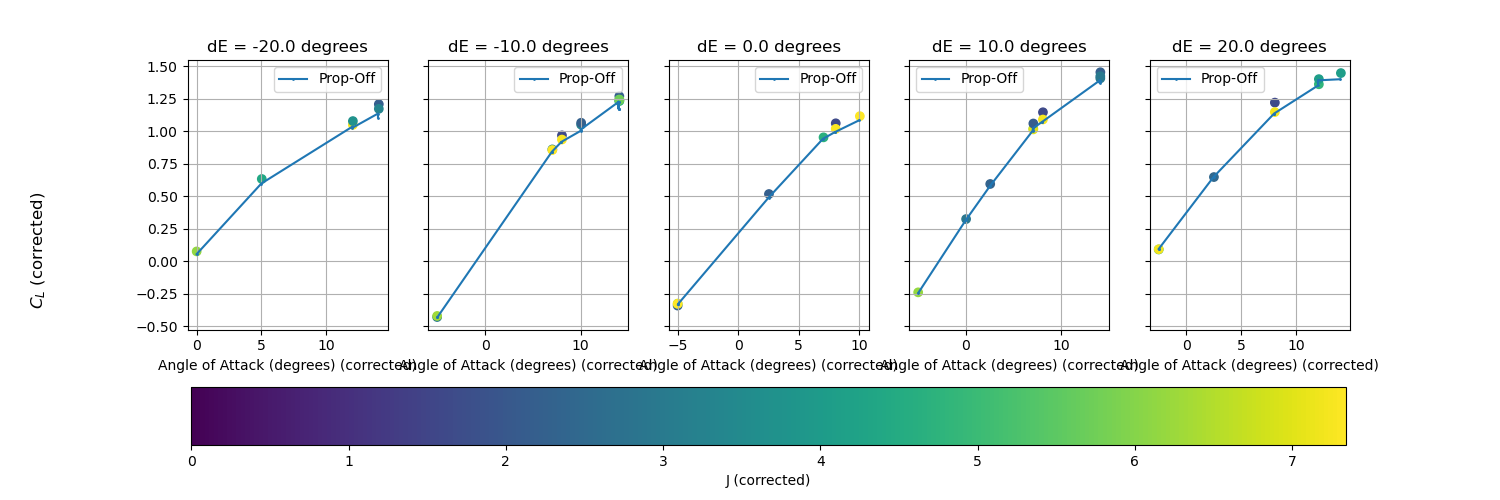
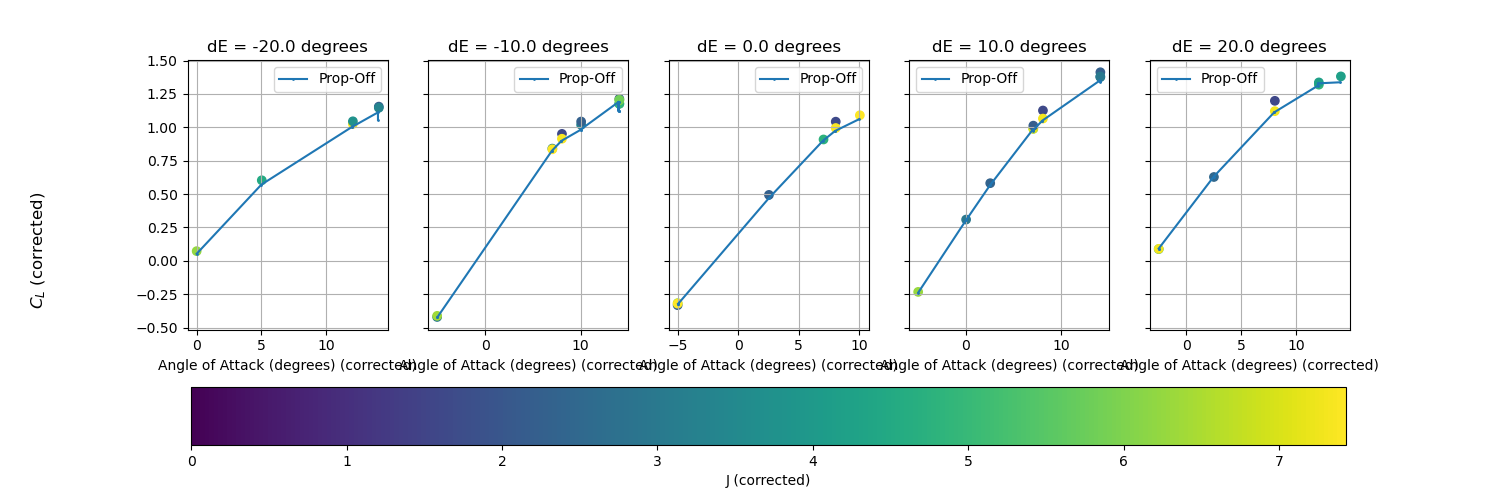
good thrust

diff --git a/main.py b/main.py
@@ -78,7 +78,7 @@ if __name__=='__main__':
             CL_uncor = elev_chosen['CFZ'].values
             CBX_uncor = elev_chosen['CFX'].values # balance ref system
             CD_0 = 0.07
-            CL_alpha = 0.11106
+            CL_alpha = 0.111463
             #control_power =
             prop_electric_power = (elev_chosen['iM1'].values * elev_chosen['vM1'].values + elev_chosen['iM2'].values * elev_chosen['vM2'].values) / (rho*(0.5*(elev_chosen['rpsM1'].values + elev_chosen['rpsM2'].values))**3 * D**5)
             if plotting == 'C_P_shaft' or plotting == 'C_P_shaft_with_10_mps' or plotting == 'eta_recuperation' or plotting == 'eta_recuperation_with_10_mps' or plotting == 'eta_propulsive' or plotting == 'eta_propulsive_with_10_mps':
@@ -103,7 +103,7 @@ if __name__=='__main__':
                     V_unc = V_propoff_uncor,
                     rho = rho[0],
                     q_unc = 0.5 * rho[0] * V_propoff_uncor**2,
-                    T = Temp[0],
+                    T = 0, # propoff
                     alpha_unc = AoA_propoff_uncor,
                     CL_unc = CL_propoff_uncor,
                     CD_unc = CD_propoff_uncor,
@@ -160,7 +160,7 @@ if __name__=='__main__':
                     V_unc=V_uncor,
                     rho=rho,
                     q_unc=q_uncor,
-                    T=Temp,
+                    T=C_T_uncor * ((0.5*(elev_chosen['rpsM1'].values + elev_chosen['rpsM2'].values))**2 * rho * D**4) ,
                     alpha_unc=AoA_uncor,
                     CL_unc=CL_uncor,
                     CD_unc=CD_uncor,
